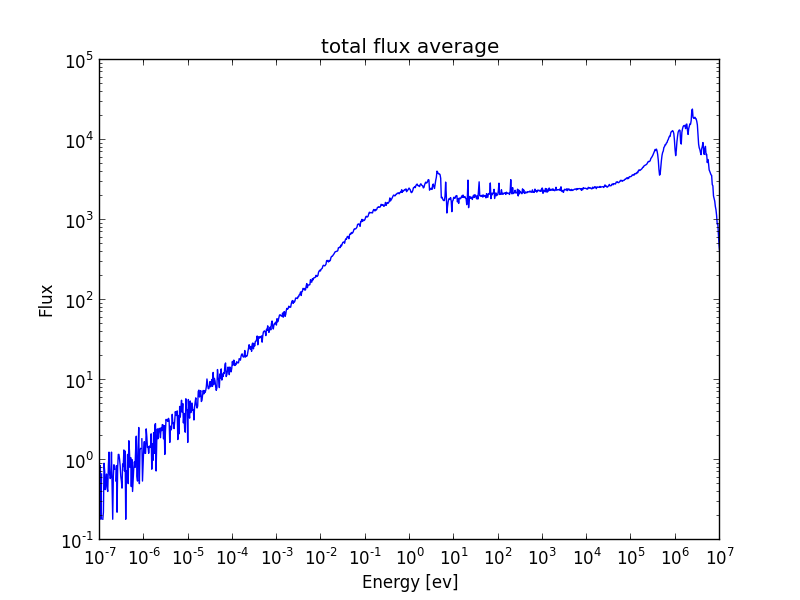
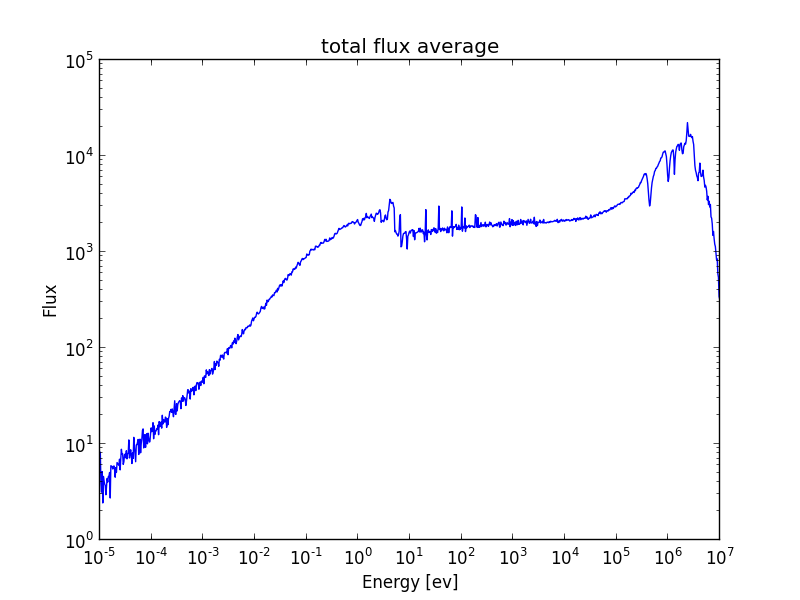
made a few small changes to infinite.py

diff --git a/python/infinite.py b/python/infinite.py
@@ -1,8 +1,7 @@
 from pinspec import *
 from numpy import *
-from plotter import *
-import matplotlib.pyplot as plt
-
+import plotter as plt
+import process as proc
 
 def main():
 
@@ -26,10 +25,10 @@ def main():
     u238 = Isotope('U-238')
 
     # Plot the microscopic cross sections for each isotope
-    plotMicroXS(u235, ['capture', 'elastic', 'fission', 'absorption'])
-    plotMicroXS(u238, ['capture', 'elastic', 'fission', 'absorption'])
-    plotMicroXS(h1, ['capture', 'elastic', 'absorption'])
-    plotMicroXS(o16, ['capture', 'elastic', 'absorption'])
+    plt.plotMicroXS(u235, ['capture', 'elastic', 'fission', 'absorption'])
+    plt.plotMicroXS(u238, ['capture', 'elastic', 'fission', 'absorption'])
+    plt.plotMicroXS(h1, ['capture', 'elastic', 'absorption'])
+    plt.plotMicroXS(o16, ['capture', 'elastic', 'absorption'])
     
     
     # Define materials
@@ -44,7 +43,7 @@ def main():
     log_printf(INFO, "Added isotopes")
 
     # Plot the mixture macroscopic cross sections
-    plotMacroXS(mix, ['capture', 'elastic', 'fission', 'absorption', 'total'])
+    plt.plotMacroXS(mix, ['capture', 'elastic', 'fission', 'absorption', 'total'])
     
     # Define regions
     region_mix = Region()
@@ -61,7 +60,7 @@ def main():
 
     # Create a tally for the flux
     flux = Tally('total flux', REGION, FLUX)
-    flux.generateBinEdges(1E-7, 1E7, 1000, LOGARITHMIC)
+    flux.generateBinEdges(1E-5, 1E7, 1000, LOGARITHMIC)
     region_mix.addTally(flux)
 
     ############################################################################
@@ -89,7 +88,7 @@ def main():
     log_printf(INFO, "Ran Monte Carlo")
     
     # plot the flux
-    plotFlux(flux)
+    plt.plotFlux(flux)
 
     # Dump batch statistics to output files to some new directory - gives segmentation fault right now
     # geometry.outputBatchStatistics('Infinite_MC_Statistics', 'test')

diff --git a/python/plotter.py b/python/plotter.py
@@ -82,7 +82,7 @@ def plotFlux(flux):
     fig.savefig(flux.getTallyName() + '_average.png')
 
 
-
+    
 
 
 
